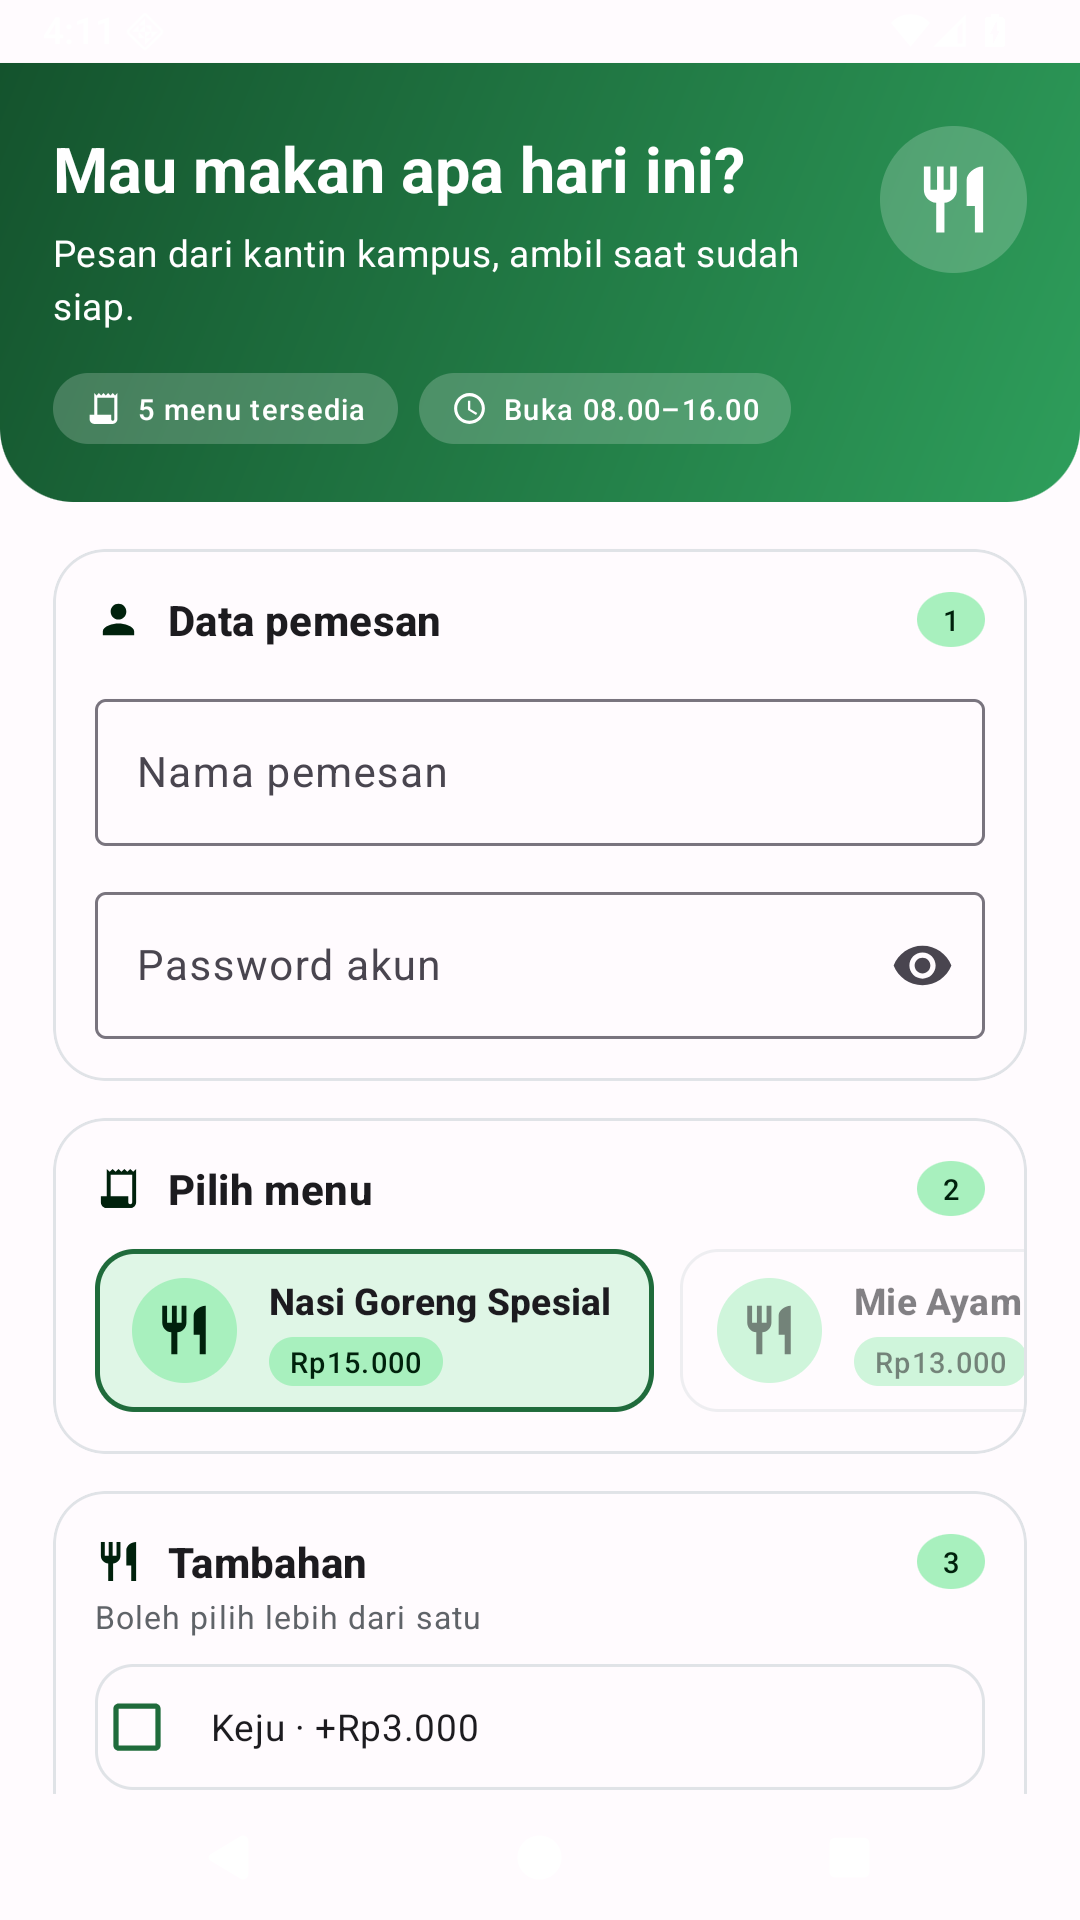
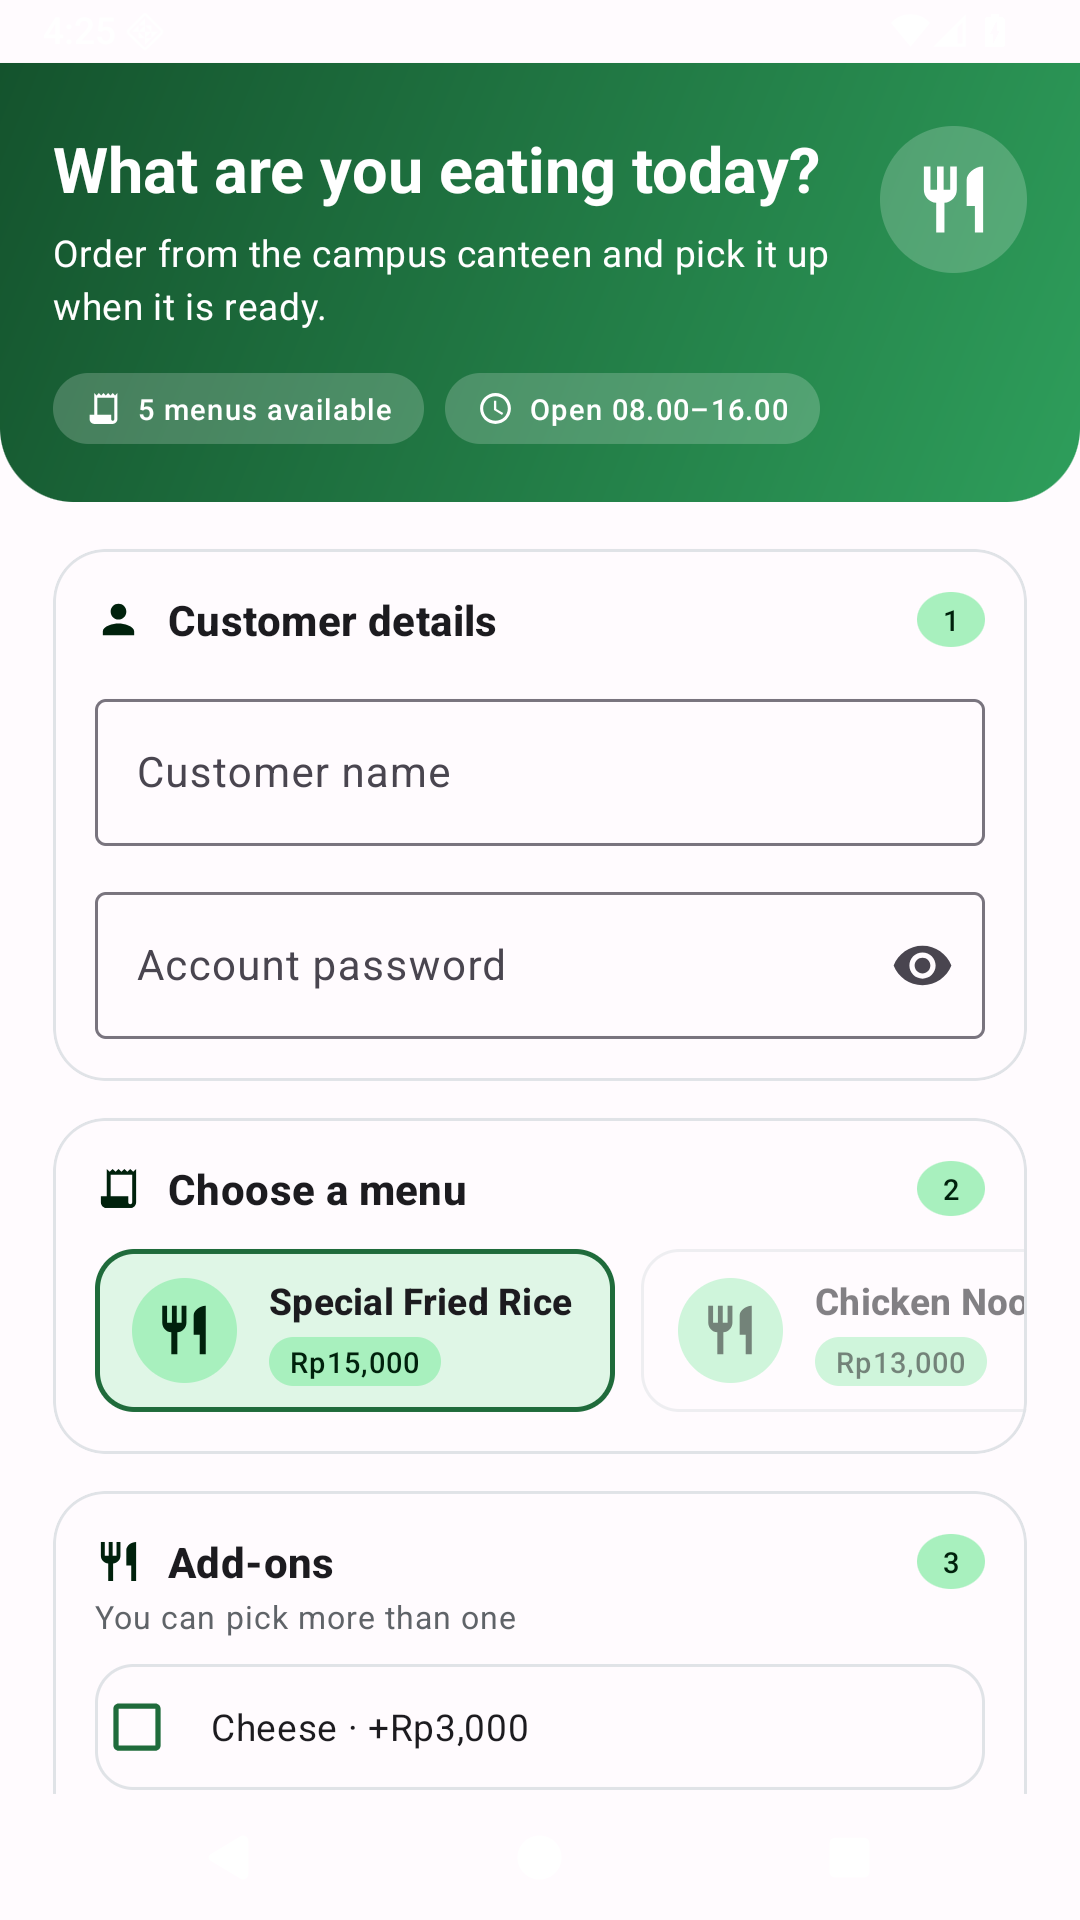
feat(i18n): translate the whole app to English
- rewrite all strings, including menu names and add-ons
- use plurals for portion and order counts
- English date format and Rp15,000 style amounts
- rename the app to CampusBite and the database to canteen.db
- translate layout comments and the README

diff --git a/app/src/main/java/com/oswaldvalois/canteenorder/MainActivity.java b/app/src/main/java/com/oswaldvalois/canteenorder/MainActivity.java
@@ -19,7 +19,6 @@ import com.google.android.material.textfield.TextInputLayout;
 
 import java.util.ArrayList;
 import java.util.List;
-import java.util.Locale;
 
 /**
  * Interactive order form: numbered section cards, horizontal menu picker,
@@ -85,11 +84,11 @@ public class MainActivity extends BaseActivity {
     }
 
     private void setupMenuPicker() {
-        menuItems.add(new MenuItem("Nasi Goreng Spesial", 15000));
-        menuItems.add(new MenuItem("Mie Ayam Bakso", 13000));
-        menuItems.add(new MenuItem("Ayam Geprek + Nasi", 14000));
-        menuItems.add(new MenuItem("Sate Ayam", 16000));
-        menuItems.add(new MenuItem("Es Teh Manis", 5000));
+        menuItems.add(new MenuItem(getString(R.string.menu_fried_rice), 15000));
+        menuItems.add(new MenuItem(getString(R.string.menu_noodles), 13000));
+        menuItems.add(new MenuItem(getString(R.string.menu_crispy_chicken), 14000));
+        menuItems.add(new MenuItem(getString(R.string.menu_satay), 16000));
+        menuItems.add(new MenuItem(getString(R.string.menu_iced_tea), 5000));
 
         LayoutInflater inflater = LayoutInflater.from(this);
         for (int i = 0; i < menuItems.size(); i++) {
@@ -182,8 +181,8 @@ public class MainActivity extends BaseActivity {
 
         summaryMenuPrice.setText(Money.rupiah(menuPrice()));
         summaryToppingPrice.setText(Money.rupiah(toppingPrice()));
-        summaryPortion.setText(String.format(Locale.US, "%d porsi", portion));
-        textPortion.setText(getString(R.string.portion_value, portion));
+        summaryPortion.setText(getResources().getQuantityString(R.plurals.portion_count, portion, portion));
+        textPortion.setText(getResources().getQuantityString(R.plurals.portion_count, portion, portion));
         animateTotal(total, instant);
     }
 
@@ -212,13 +211,13 @@ public class MainActivity extends BaseActivity {
     private String selectedToppings() {
         List<String> toppings = new ArrayList<>();
         if (checkCheese.isChecked()) {
-            toppings.add("Keju");
+            toppings.add(getString(R.string.topping_cheese_short));
         }
         if (checkEgg.isChecked()) {
-            toppings.add("Telur");
+            toppings.add(getString(R.string.topping_egg_short));
         }
         if (checkSambal.isChecked()) {
-            toppings.add("Sambal");
+            toppings.add(getString(R.string.topping_sambal_short));
         }
         return toppings.isEmpty()
                 ? getString(R.string.no_topping)

diff --git a/app/src/main/java/com/oswaldvalois/canteenorder/OrderDetailActivity.java b/app/src/main/java/com/oswaldvalois/canteenorder/OrderDetailActivity.java
@@ -17,7 +17,7 @@ public class OrderDetailActivity extends BaseActivity {
     public static final String EXTRA_ORDER_ID = "order_id";
 
     private final SimpleDateFormat dateFormat =
-            new SimpleDateFormat("dd MMM yyyy, HH:mm", new Locale("id", "ID"));
+            new SimpleDateFormat("dd MMM yyyy, HH:mm", Locale.ENGLISH);
 
     private OrderDbHelper db;
     private Order order;
@@ -53,7 +53,7 @@ public class OrderDetailActivity extends BaseActivity {
         ((TextView) findViewById(R.id.detailMenu)).setText(order.getMenu());
         ((TextView) findViewById(R.id.detailToppings)).setText(order.getToppings());
         ((TextView) findViewById(R.id.detailPortion))
-                .setText(getString(R.string.portion_value, order.getQuantity()));
+                .setText(getResources().getQuantityString(R.plurals.portion_count, order.getQuantity(), order.getQuantity()));
         ((TextView) findViewById(R.id.detailTotal)).setText(Money.rupiah(order.getTotal()));
         ((TextView) findViewById(R.id.detailTime))
                 .setText(dateFormat.format(new Date(order.getCreatedAt())));

diff --git a/app/src/main/java/com/oswaldvalois/canteenorder/OrderListActivity.java b/app/src/main/java/com/oswaldvalois/canteenorder/OrderListActivity.java
@@ -55,7 +55,7 @@ public class OrderListActivity extends BaseActivity {
         recyclerOrders.setVisibility(isEmpty ? View.GONE : View.VISIBLE);
         textCount.setVisibility(isEmpty ? View.GONE : View.VISIBLE);
         if (!isEmpty) {
-            textCount.setText(getString(R.string.list_count, orders.size()));
+            textCount.setText(getResources().getQuantityString(R.plurals.order_count, orders.size(), orders.size()));
         }
         if (isEmpty) {
             emptyState.setAlpha(0f);

diff --git a/app/src/main/java/com/oswaldvalois/canteenorder/OrderAdapter.java b/app/src/main/java/com/oswaldvalois/canteenorder/OrderAdapter.java
@@ -24,7 +24,7 @@ public class OrderAdapter extends RecyclerView.Adapter<OrderAdapter.OrderViewHol
     private final List<Order> orders = new ArrayList<>();
     private final OnOrderClickListener listener;
     private final SimpleDateFormat dateFormat =
-            new SimpleDateFormat("dd MMM yyyy, HH:mm", new Locale("id", "ID"));
+            new SimpleDateFormat("dd MMM yyyy, HH:mm", Locale.ENGLISH);
 
     public OrderAdapter(OnOrderClickListener listener) {
         this.listener = listener;

diff --git a/app/src/main/java/com/oswaldvalois/canteenorder/OrderDbHelper.java b/app/src/main/java/com/oswaldvalois/canteenorder/OrderDbHelper.java
@@ -12,7 +12,7 @@ import java.util.List;
 /** SQLite persistence for canteen orders. */
 public class OrderDbHelper extends SQLiteOpenHelper {
 
-    private static final String DB_NAME = "kantin.db";
+    private static final String DB_NAME = "canteen.db";
     private static final int DB_VERSION = 1;
 
     private static final String TABLE_ORDERS = "orders";

diff --git a/app/src/main/java/com/oswaldvalois/canteenorder/Money.java b/app/src/main/java/com/oswaldvalois/canteenorder/Money.java
@@ -9,6 +9,6 @@ public final class Money {
     }
 
     public static String rupiah(int amount) {
-        return "Rp" + String.format(Locale.US, "%,d", amount).replace(',', '.');
+        return "Rp" + String.format(Locale.US, "%,d", amount);
     }
 }

diff --git a/README.md b/README.md
@@ -1,79 +1,79 @@
-# KantinKu — Aplikasi Pemesanan Makanan Kantin
+# CampusBite — Campus Canteen Ordering App
 
-Aplikasi Android untuk memesan makanan kantin. Dibuat untuk Tugas Proyek
-mata kuliah **Mobile Application Development** (Semester 20261).
+An Android app for ordering food from the campus canteen. Built for the
+**Mobile Application Development** course project (Semester 20261).
 
-Alur: isi form pesanan → data disimpan ke SQLite → daftar pesanan → detail pesanan.
+Flow: fill in the order form → the order is stored in SQLite → order list → order details.
 
-## Fitur
+## Features
 
-- Hero header gradien dengan ringkasan jam buka dan jumlah menu.
-- Form pesanan berseksi bernomor: data pemesan, pilih menu, tambahan, jumlah porsi, ringkasan.
-- Pemilih menu horizontal: kartu menu yang menyala saat dipilih, lengkap dengan harga.
-- Topping berupa baris yang berubah warna dan garis tepi saat dicentang.
-- Jumlah porsi lewat stepper tombol + / − dan slider SeekBar yang tersinkron.
-- Total berjalan (count-up animation) plus rincian harga menu, topping, dan porsi.
-- Validasi nama dan password dengan pesan error dan auto-scroll ke kolom bermasalah.
-- Penyimpanan pesanan ke database SQLite lokal.
-- Daftar pesanan dengan avatar inisial, jumlah pesanan, dan kartu yang bisa ditekan.
-- Halaman detail dengan hero total, rincian pesanan, dan hapus pesanan.
-- Empty state berilustrasi dengan tombol "Buat pesanan".
-- Transisi antar layar (slide + fade) dan tema Material 3 dengan mode gelap.
+- Gradient hero header with opening hours and available menu count.
+- Numbered section cards: customer details, choose a menu, add-ons, portion, summary.
+- Horizontal menu picker: the selected card lights up and shows its price in a pill.
+- Add-ons as rows that change colour and border when ticked.
+- Portion count through a + / − stepper and a synced SeekBar slider.
+- Running total (count-up animation) plus a breakdown of menu price, add-ons and portions.
+- Name and password validation with inline errors and auto-scroll to the failing field.
+- Orders persisted in a local SQLite database.
+- Order list with initial avatars, saved order count, and tappable cards.
+- Detail screen with a hero total, order breakdown, and delete action.
+- Illustrated empty state with a "Create Order" button.
+- Screen transitions (slide + fade) and a Material 3 theme with dark mode support.
 
-## Pemenuhan Requirement
+## Requirement Coverage
 
-| Requirement | Implementasi |
+| Requirement | Implementation |
 |---|---|
-| Intent dan Activity | 3 Activity: `MainActivity` → `OrderListActivity` → `OrderDetailActivity`. Perpindahan memakai `Intent` eksplisit, data pesanan dikirim lewat `Intent` extra (`order_id`). |
-| Text Input | `TextInputLayout` + `TextInputEditText` untuk nama pemesan (`inputName`). |
-| Password input | `TextInputEditText` dengan `inputType="textPassword"` dan tombol tampil/sembunyikan password (`inputPassword`). |
-| Selection (Spinner) | `Spinner` daftar menu beserta harga (`spinnerMenu`). |
-| Checkbox / Radio Button | 3 `CheckBox` topping: keju, telur, sambal. |
-| Button | `MaterialButton` "Pesan Sekarang", "Lihat Pesanan", dan "Hapus Pesanan". |
-| SeekBar | `SeekBar` jumlah porsi 1–10 (`seekPortion`), total ikut berubah. |
-| Database | SQLite via `OrderDbHelper` (`SQLiteOpenHelper`): tabel `orders`, operasi insert, query, dan delete. |
-| Workflow & desain | Alur form → simpan → daftar → detail → hapus; UI material 3 dengan hero, kartu berseksi, animasi total, transisi layar, dan mode gelap. |
+| Intent and Activity | 3 activities: `MainActivity` → `OrderListActivity` → `OrderDetailActivity`. Navigation uses explicit `Intent`s; the order is passed through the `order_id` Intent extra. |
+| Text Input | `TextInputLayout` + `TextInputEditText` for the customer name (`inputName`). |
+| Password input | `TextInputEditText` with `inputType="textPassword"` and a show/hide toggle (`inputPassword`). |
+| Selection (Spinner) | `Spinner` listing the menu with prices (`spinnerMenu`). |
+| Checkbox / Radio Button | 3 `CheckBox` add-ons: cheese, egg, chili sauce. |
+| Button | `MaterialButton` for "Place Order", "View Orders" and "Delete Order". |
+| SeekBar | `SeekBar` for 1–10 portions (`seekPortion`); the total updates as it moves. |
+| Database | SQLite through `OrderDbHelper` (`SQLiteOpenHelper`): the `orders` table with insert, query and delete. |
+| Workflow & design | Form → save → list → detail → delete; Material 3 UI with a hero header, section cards, animated total, screen transitions and dark mode. |
 
-## Struktur Kode
+## Code Structure
 
 ```
 app/src/main/java/com/oswaldvalois/canteenorder/
-├── MainActivity.java        # Form pesanan + validasi + simpan ke SQLite
-├── OrderListActivity.java   # Daftar pesanan (RecyclerView)
-├── OrderDetailActivity.java # Detail pesanan + hapus
-├── OrderAdapter.java        # Adapter RecyclerView
-├── OrderDbHelper.java       # SQLiteOpenHelper (CRUD tabel orders)
-├── Order.java               # Model pesanan
-├── MenuItem.java            # Model menu (nama + harga)
-├── Money.java               # Format rupiah
-└── BaseActivity.java        # Penanganan system bar insets
+├── MainActivity.java        # Order form, validation, writes to SQLite
+├── OrderListActivity.java   # Order list (RecyclerView)
+├── OrderDetailActivity.java # Order details and delete action
+├── OrderAdapter.java        # RecyclerView adapter with initial avatars
+├── OrderDbHelper.java       # SQLiteOpenHelper (CRUD for the orders table)
+├── Order.java               # Order model
+├── MenuItem.java            # Menu model (name + price)
+├── Money.java               # Rupiah formatting
+└── BaseActivity.java        # System bar insets and screen transitions
 ```
 
-## Cara Build
+## Build
 
-Prasyarat: Android Studio (JDK 17+) dan Android SDK.
+Requirements: Android Studio (JDK 17+) and the Android SDK.
 
 ```bash
 ./gradlew assembleDebug
 ```
 
-APK hasil build: `app/build/outputs/apk/debug/app-debug.apk`.
+The APK lands in `app/build/outputs/apk/debug/app-debug.apk`.
 
-Atau buka folder proyek di Android Studio, lalu Run.
+Or open the project folder in Android Studio and press Run.
 
-## Screenshot
+## Screenshots
 
-| Form Pesanan | Form Terisi | Daftar Pesanan |
+| Order Form | Form Filled In | Orders |
 |---|---|---|
-| ![Form](docs/screenshots/01-form.png) | ![Form terisi](docs/screenshots/02-form-terisi.png) | ![Daftar](docs/screenshots/03-daftar-pesanan.png) |
+| ![Form](docs/screenshots/01-form.png) | ![Form filled](docs/screenshots/02-form-filled.png) | ![Orders](docs/screenshots/03-order-list.png) |
 
-| Detail Pesanan | Daftar Kosong |
+| Order Details | Empty State |
 |---|---|
-| ![Detail](docs/screenshots/04-detail-pesanan.png) | ![Kosong](docs/screenshots/05-kosong.png) |
+| ![Details](docs/screenshots/04-order-details.png) | ![Empty](docs/screenshots/05-empty.png) |
 
-## Spesifikasi
+## Specifications
 
-- Bahasa: Java
+- Language: Java
 - minSdk 24, targetSdk 37, compileSdk 37
 - Android Gradle Plugin 9.3.2, Gradle 9.5
-- Library: AndroidX AppCompat, Material Components, RecyclerView
+- Libraries: AndroidX AppCompat, Material Components, RecyclerView
